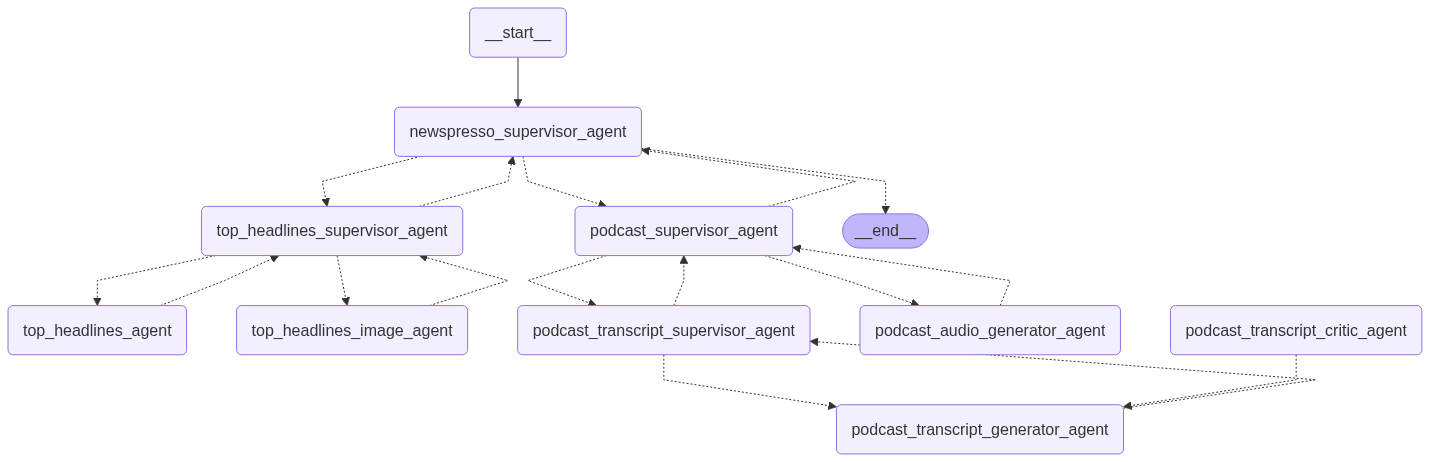
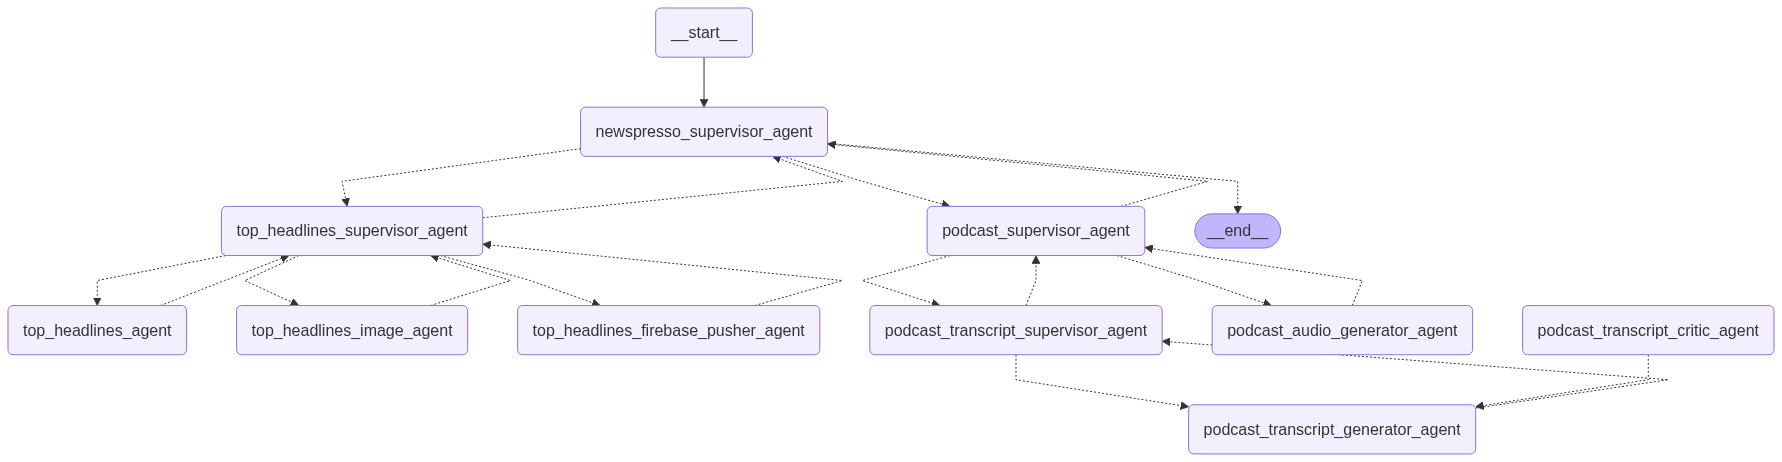
image node working, added firebase pusher agent

diff --git a/ML Projects/Langgraph-Practice/15-news-summarizer/functions/newspresso_team/top_headlines_team/top_headlines_firebase_pusher_agent.py b/ML Projects/Langgraph-Practice/15-news-summarizer/functions/newspresso_team/top_headlines_team/top_headlines_firebase_pusher_agent.py
@@ -1,0 +1,38 @@
+from common_imports import *
+from constants import *
+from classes import AgentState, TopHeadlinesClass
+from tools.helper_tools.tools import *
+from functions.newspresso_team.top_headlines_team.top_headlines_supervisor_agent import role_of_each_top_headlines_worker
+
+def top_headlines_firebase_pusher_node(state: AgentState) -> Command[Literal[TOP_HEADLINES_SUPERVISOR_AGENT]]:
+    print("====TOP HEADLINES FIREBASE PUSHER NODE=====")
+    print("===STATE AT TOP HEADLINES FIREBASE PUSHER NODE=====")
+    print(state)
+    top_headlines_summary_json_file = state["top_headlines_class"]["top_headlines_summary_json_file"]
+    category = state["category_class"]["category"]
+    date = state["category_class"]["date"]
+    system_prompt = f"{role_of_each_top_headlines_worker[TOP_HEADLINES_FIREBASE_PUSHER_AGENT]}"+"""
+    You are given a json file that contains the top headlines. Make sure the json file has a valid JSON format. If not, you need to fix it and then save it back.\n
+    You need to push the json file to the firebase database. \n
+    """
+    prompt = ChatPromptTemplate.from_messages([
+        ("system", system_prompt),
+        ("user", "Please push the json file to the firebase database: {top_headlines_summary_json_file}. The category is {category} and the date is {date}"),
+    ])
+    formatted_prompt = prompt.format(top_headlines_summary_json_file=top_headlines_summary_json_file, category=category, date=date)
+    top_headlines_firebase_pusher_agent = create_react_agent(llm, 
+                                             tools=top_headlines_firebase_pusher_agent_tools, 
+                                             prompt = formatted_prompt)
+    invoke_message = {"input": "Please do the task as per the system prompt"}
+    result = top_headlines_firebase_pusher_agent.invoke(invoke_message)
+    print("===RESULT OF TOP HEADLINES FIREBASE PUSHER NODE=====")
+    print(result)
+
+    return Command(
+        update={
+            "messages": [
+                HumanMessage(content="Top headlines fetched and summarized successfully. The image URLs of the top headlines were verified and pushed to the firestore database.", name=TOP_HEADLINES_FIREBASE_PUSHER_AGENT)
+            ],
+        },
+        goto=TOP_HEADLINES_SUPERVISOR_AGENT,
+    )

diff --git a/ML Projects/Langgraph-Practice/15-news-summarizer/functions/newspresso_team/top_headlines_team/top_headlines_image_agent.py b/ML Projects/Langgraph-Practice/15-news-summarizer/functions/newspresso_team/top_headlines_team/top_headlines_image_agent.py
@@ -14,11 +14,11 @@ def top_headlines_image_node(state: AgentState) -> Command[Literal[TOP_HEADLINES
     system_prompt = f"{role_of_each_top_headlines_worker[TOP_HEADLINES_IMAGE_AGENT]}"+"""
     You are given a json file that contains the top headlines which will include the image URL (urlToImage parameter in the json object) for each headline. \n
     You need to check if the image URL of the top headlines is valid and points to an actual image file. \n
-    If the image URL is not valid, you need to find a new image URL related to the headline and update the json file. \n
+    If the image URL is not valid, you need to find a new image URL related to the headline (content_summary parameter in the json object) and update the json file. \n
     If the image URL is valid, you need to check if the image can be opened. \n
     If the image cannot be opened, you need to find a new image URL related to the headline and update the json file. \n
     If the image can be opened, no update for that headline is needed as the image URL is valid. \n
-    Lastly, push the json file to the firebase database. \n
+    Lastly, make sure the json file has a valid JSON format. If not, you need to fix it and then save it back.
     """
     prompt = ChatPromptTemplate.from_messages([
         ("system", system_prompt),
@@ -42,7 +42,7 @@ def top_headlines_image_node(state: AgentState) -> Command[Literal[TOP_HEADLINES
     return Command(
         update={
             "messages": [
-                HumanMessage(content="Top headlines fetched and summarized successfully. The image URL of the top headlines was verified and updated if needed.", name=TOP_HEADLINES_IMAGE_AGENT)
+                HumanMessage(content="Top headlines fetched and summarized successfully. The image URLs of the top headlines were verified and updated if needed. The json file is not pushed to the firebase database yet.", name=TOP_HEADLINES_IMAGE_AGENT)
             ],
             "top_headlines_class": current_top_headlines,
         },

diff --git a/ML Projects/Langgraph-Practice/15-news-summarizer/functions/newspresso_team/top_headlines_team/top_headlines_agent.py b/ML Projects/Langgraph-Practice/15-news-summarizer/functions/newspresso_team/top_headlines_team/top_headlines_agent.py
@@ -62,8 +62,8 @@ def top_headlines_node(state: AgentState) -> Command[Literal[TOP_HEADLINES_SUPER
         - content_summary: A summary of the headline in about 300 words.\n
         - urlToImage: The image URL of the headline.\n
         - sources: The list of citations/relevant sources of the headline. Can be around 2-3 sources per headline.\n
-        - published_at: Today's date
-    Lastly, push the json file to the firebase database as per the category.
+        - published_at: Today's date \n
+    Lastly, make sure the json file has a valid JSON format. If not, you need to fix it and then save it back.
     """
     prompt = ChatPromptTemplate.from_messages([
         ("system", system_prompt),
@@ -87,7 +87,7 @@ def top_headlines_node(state: AgentState) -> Command[Literal[TOP_HEADLINES_SUPER
     return Command(
         update={
             "messages": [
-                HumanMessage(content="Top headlines fetched and summarized successfully. The json file was saved and has been pushed to the firebase database. The image URL of the top headlines are not verified yet.", name=TOP_HEADLINES_AGENT)
+                HumanMessage(content="Top headlines fetched and summarized successfully. The json file was saved but not pushed to the firebase database. The image URL of the top headlines are not verified yet.", name=TOP_HEADLINES_AGENT)
             ],
             "top_headlines_class": current_top_headlines,
             "category_class": CategoryClass(category=category, country=country, date=date),

diff --git a/ML Projects/Langgraph-Practice/15-news-summarizer/graph.py b/ML Projects/Langgraph-Practice/15-news-summarizer/graph.py
@@ -7,6 +7,7 @@ from functions.newspresso_team.top_headlines_team.top_headlines_image_agent impo
 from functions.newspresso_team.podcast_team.podcast_supervisor_agent import podcast_supervisor_agent
 from functions.newspresso_team.podcast_team.podcast_transcript_supervisor_agent.podcast_transcript_supervisor_agent import podcast_transcript_supervisor_agent
 from functions.newspresso_team.podcast_team.podcast_audio_generator_agent import podcast_audio_generator_node
+from functions.newspresso_team.top_headlines_team.top_headlines_firebase_pusher_agent import top_headlines_firebase_pusher_node
 
 from functions.newspresso_team.podcast_team.podcast_transcript_supervisor_agent.podcast_transcript_generator_agent import podcast_transcript_generator_node
 from functions.newspresso_team.podcast_team.podcast_transcript_supervisor_agent.podcast_transcript_critic_agent import podcast_transcript_critic_node
@@ -21,6 +22,7 @@ workflow.add_node(NEWSPRESSO_SUPERVISOR_AGENT, newspresso_supervisor_agent)
 workflow.add_node(TOP_HEADLINES_SUPERVISOR_AGENT, top_headlines_supervisor_agent)
 workflow.add_node(TOP_HEADLINES_AGENT, top_headlines_node)
 workflow.add_node(TOP_HEADLINES_IMAGE_AGENT, top_headlines_image_node)
+workflow.add_node(TOP_HEADLINES_FIREBASE_PUSHER_AGENT, top_headlines_firebase_pusher_node)
 
 workflow.add_node(PODCAST_SUPERVISOR_AGENT, podcast_supervisor_agent)
 workflow.add_node(PODCAST_TRANSCRIPT_SUPERVISOR_AGENT, podcast_transcript_supervisor_agent)

diff --git a/ML Projects/Langgraph-Practice/15-news-summarizer/functions/newspresso_team/top_headlines_team/top_headlines_supervisor_agent.py b/ML Projects/Langgraph-Practice/15-news-summarizer/functions/newspresso_team/top_headlines_team/top_headlines_supervisor_agent.py
@@ -61,8 +61,9 @@ def make_top_headlines_supervisor_node(llm, members, role_of_each_worker) -> str
 
 
 role_of_each_top_headlines_worker = {
-    TOP_HEADLINES_AGENT: "Agent who is tasked with providing the summary of the top headlines. Moreover, the summary is written to a json file and pushed to the firebase database.",
-    TOP_HEADLINES_IMAGE_AGENT: "Agent who is tasked with checking the image URL of the top headlines. Moreover, the image URL is written to a json file and pushed to the firebase database if they need to be updated.",
+    TOP_HEADLINES_AGENT: "Agent who is tasked with providing the summary of the top headlines. Moreover, the summary is written to a json file.",
+    TOP_HEADLINES_IMAGE_AGENT: "Agent who is tasked with checking the image URL of the top headlines. Moreover, the image URL is written to a json file if they need to be updated.",
+    TOP_HEADLINES_FIREBASE_PUSHER_AGENT: "Agent who is tasked with pushing the json file to the firebase database. The json file is provided to you.",
 }
 
 # TOP HEADLINES SUPERVISOR

diff --git a/ML Projects/Langgraph-Practice/15-news-summarizer/tools/helper_tools/tools.py b/ML Projects/Langgraph-Practice/15-news-summarizer/tools/helper_tools/tools.py
@@ -244,8 +244,9 @@ summary_json_file = summary_dir / "top_headlines_summary.json"
 
 # Tools
 category_extractor_agent_tools = [get_todays_date_and_day]
-top_headlines_agent_tools = [get_perplexity_response, write_summary_to_json_file, push_headlines_to_firebase_db]
-top_headlines_image_agent_tools = [read_json_file, write_summary_to_json_file, push_headlines_to_firebase_db, get_perplexity_response_with_image, check_image_url]
+top_headlines_agent_tools = [get_perplexity_response, write_summary_to_json_file, validate_json_file]
+top_headlines_image_agent_tools = [read_json_file, write_summary_to_json_file, get_perplexity_response_with_image, check_image_url, validate_json_file]
+top_headlines_firebase_pusher_agent_tools = [read_json_file, push_headlines_to_firebase_db, validate_json_file, write_summary_to_json_file]
 
 transcript_generator_agent_tools = [write_to_file, read_json_file]
 podcast_audio_generator_agent_tools = [create_podcast, push_audio_to_firebase_storage]

diff --git a/ML Projects/Langgraph-Practice/15-news-summarizer/constants.py b/ML Projects/Langgraph-Practice/15-news-summarizer/constants.py
@@ -9,6 +9,7 @@ NEWSPRESSO_SUPERVISOR_AGENT = "newspresso_supervisor_agent"
 TOP_HEADLINES_SUPERVISOR_AGENT = "top_headlines_supervisor_agent"
 TOP_HEADLINES_AGENT = "top_headlines_agent"
 TOP_HEADLINES_IMAGE_AGENT = "top_headlines_image_agent"
+TOP_HEADLINES_FIREBASE_PUSHER_AGENT = "top_headlines_firebase_pusher_agent"
 
 PODCAST_SUPERVISOR_AGENT = "podcast_supervisor_agent"
 PODCAST_AUDIO_GENERATOR_AGENT = "podcast_audio_generator_agent"
